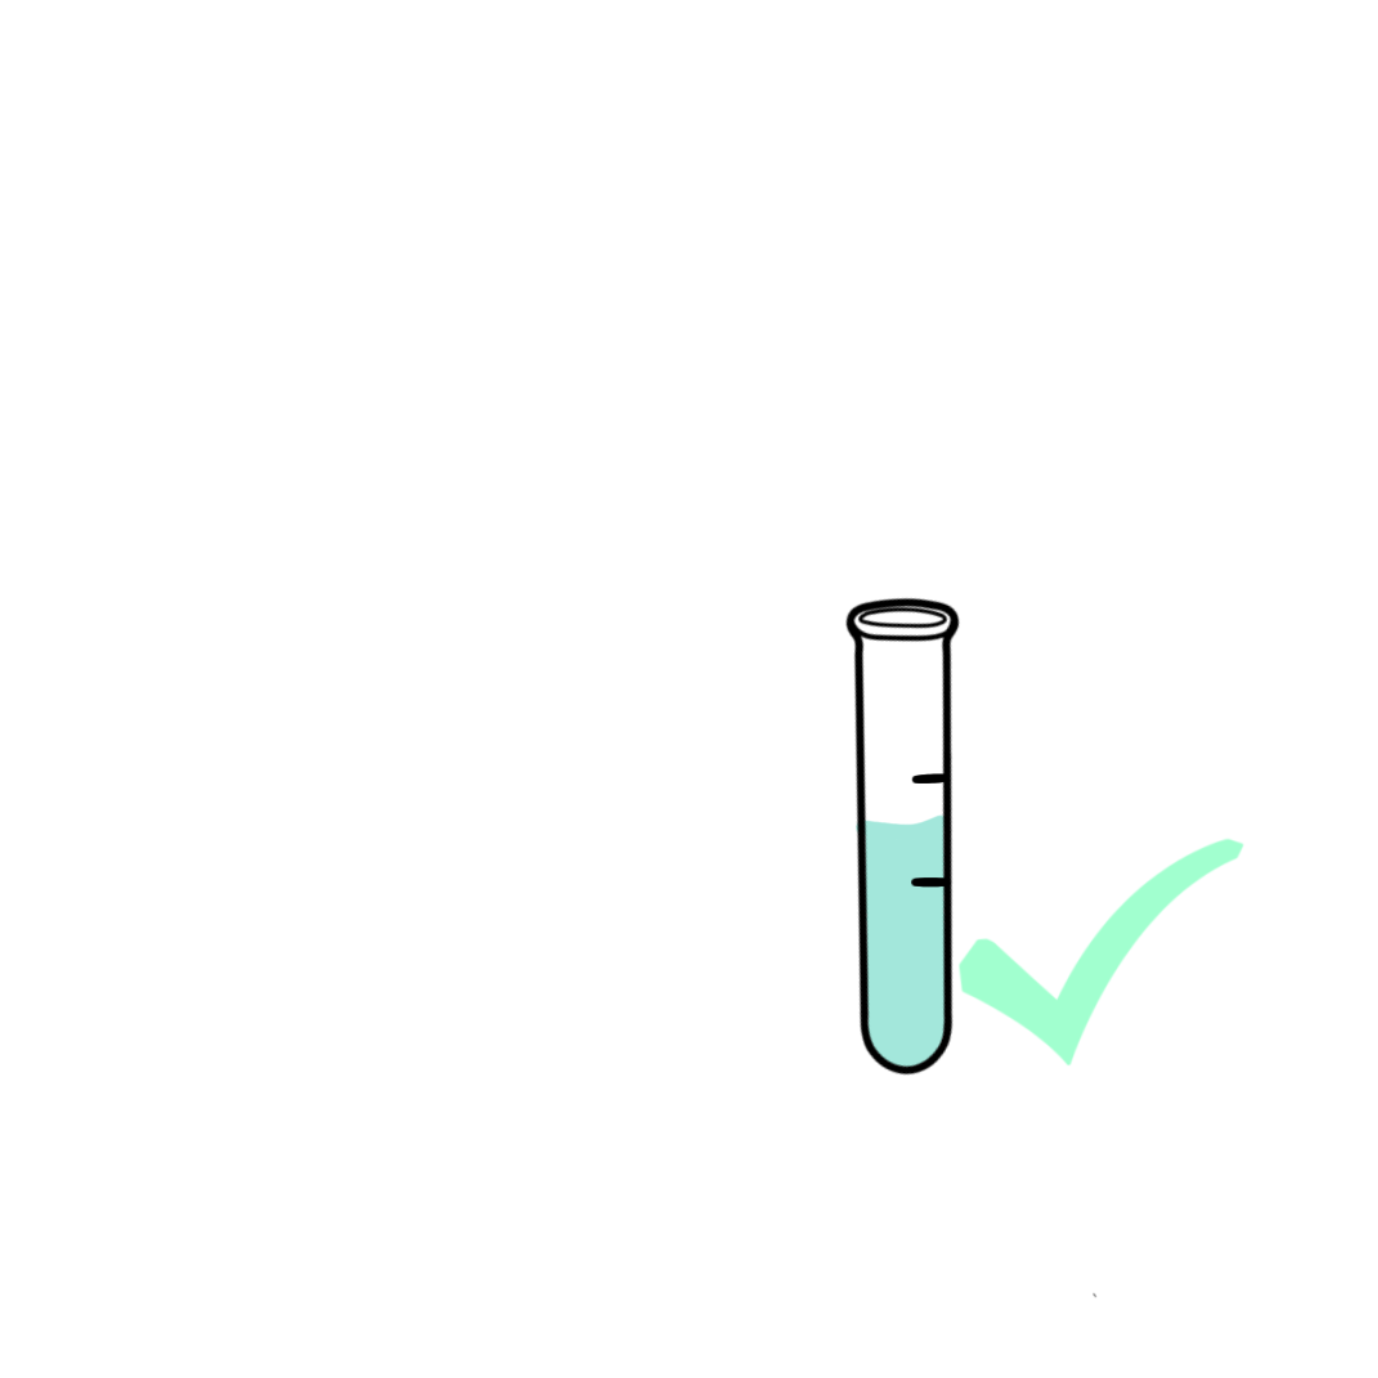
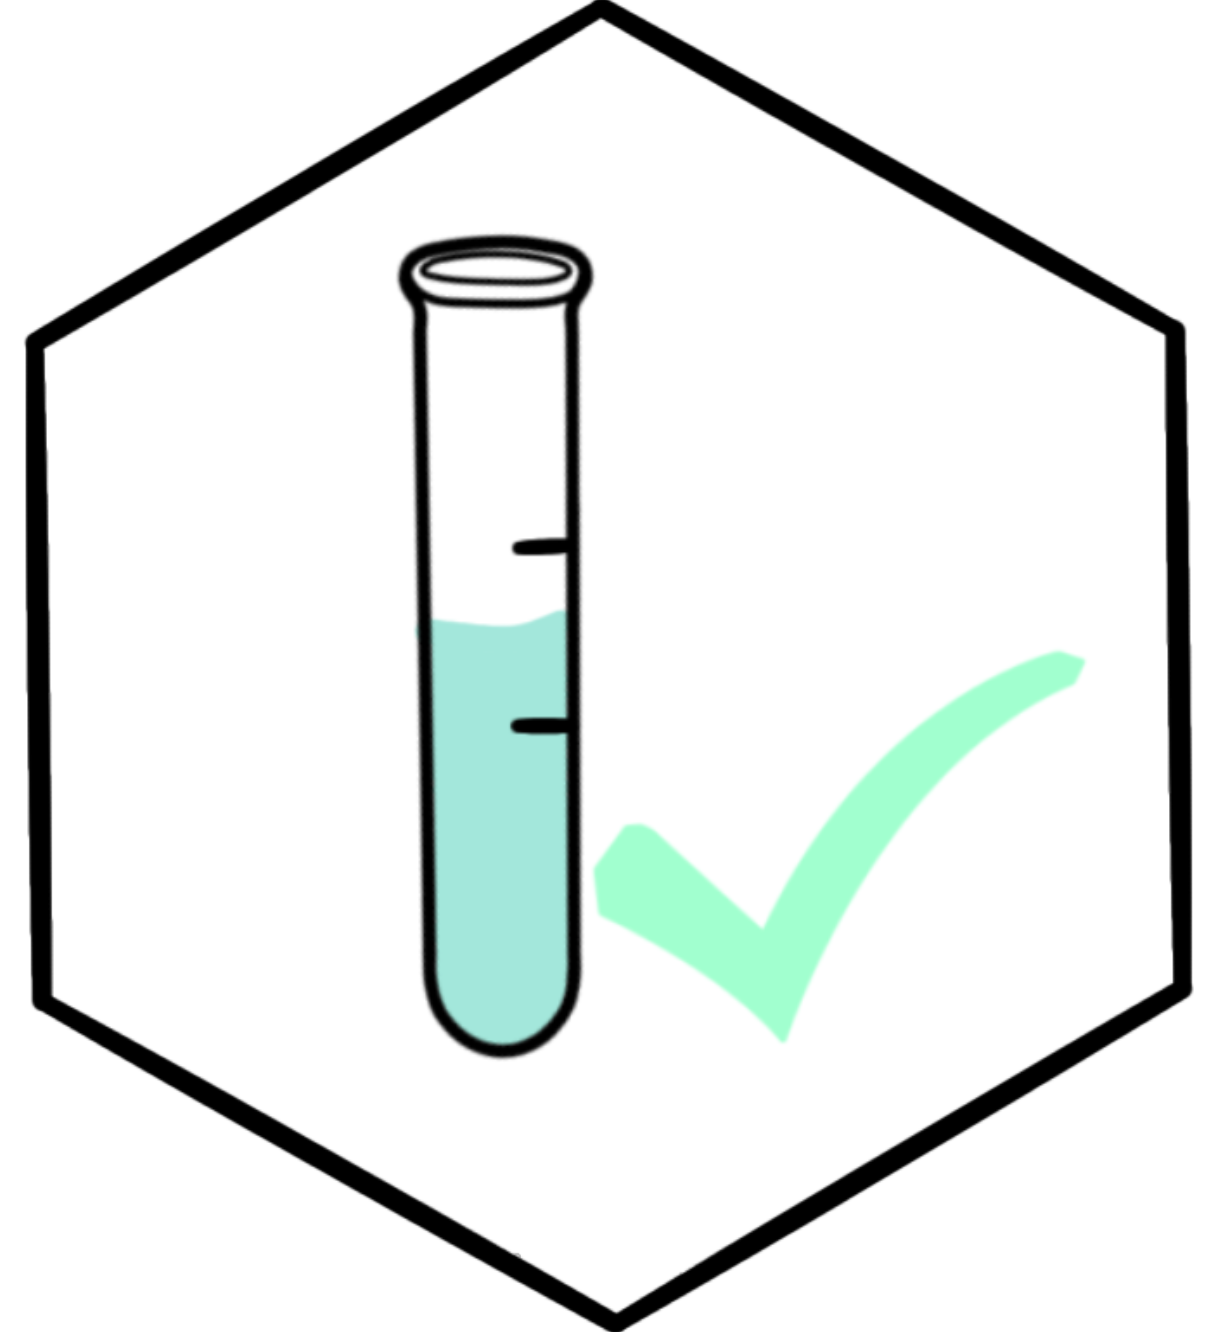
style: algumas correções de imagem

Changed region(s): [[0.3055, 0.1539, 0.9166, 0.8003], [0.0, 0.0, 1.0, 1.0]]

diff --git a/Front/src/assets/option.css b/Front/src/assets/option.css
@@ -46,7 +46,7 @@
 
 .image-mark {
   position: absolute;
-  bottom: -10px;
+  bottom: -5px;
   right: 0px;
   width: 70px;
   /* Defina o tamanho desejado */
